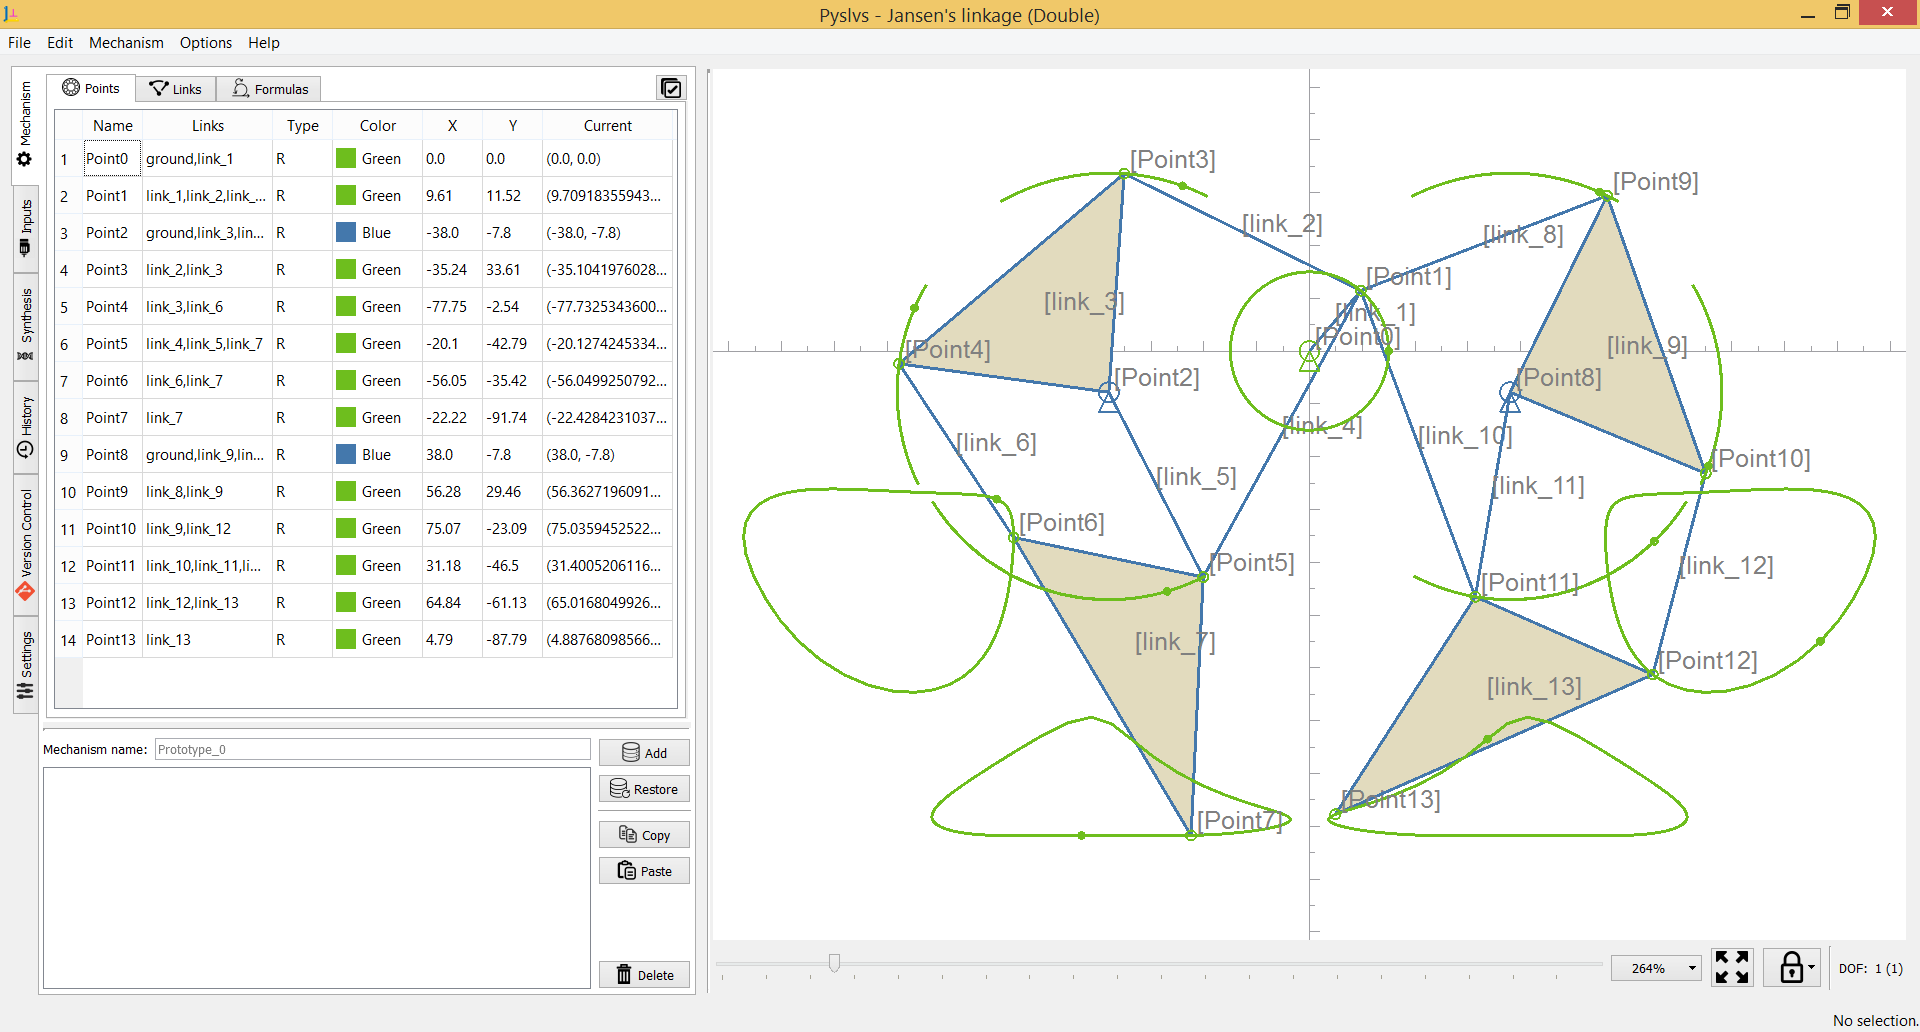
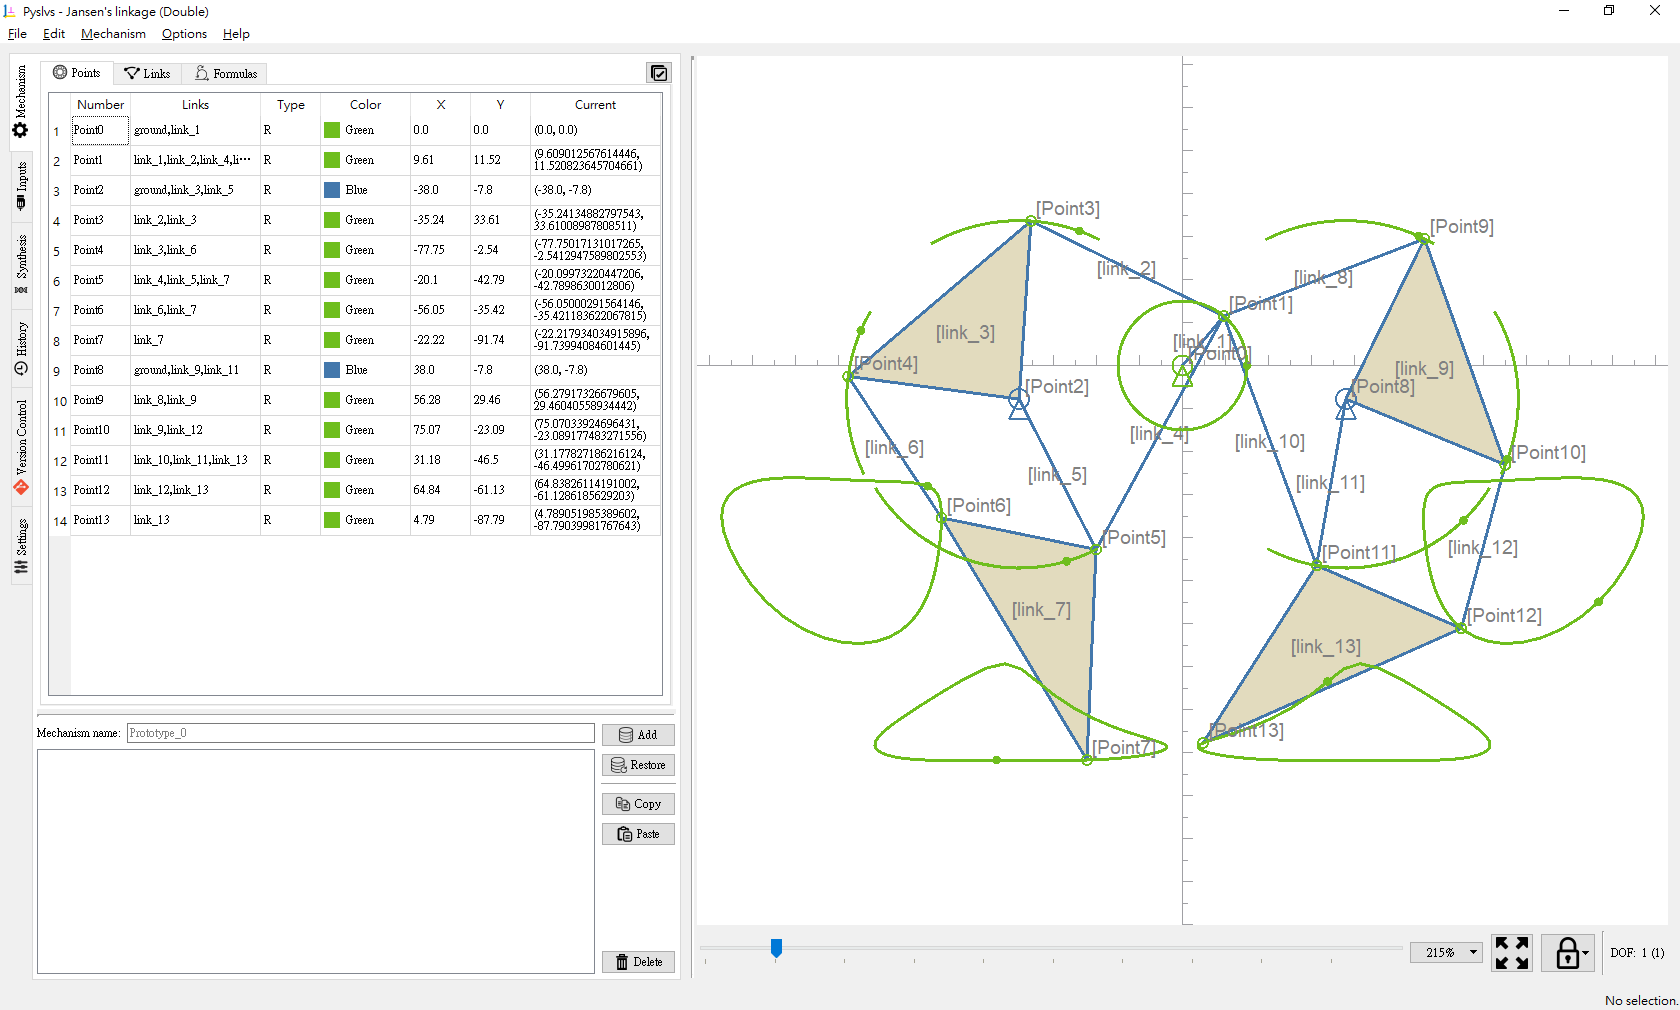
Update Windows cover and readme.

diff --git a/core/widgets/tables.py b/core/widgets/tables.py
@@ -391,8 +391,6 @@ class ExprTableWidget(_BaseTableWidget):
         """Set the table items for new coming expression."""
         if exprs != self.exprs:
             self.clear()
-            print(exprs)
-            print(unsolved)
             self.setRowCount(len(exprs) + len(unsolved))
         row = 0
         for expr in exprs:

diff --git a/README.md b/README.md
@@ -57,7 +57,7 @@ Previews in KDE Plasma desktop:
 
 ![main](images/main_plasma.png)
 
-Previews in Windows 8.1 theme:
+Previews in Windows 10 theme:
 
 ![main](images/main_win.png)
 
@@ -121,11 +121,17 @@ The grammar is defined with Extended Backus–Naur Form (EBNF), you can checkout
 
 ## Kinematics Simulation
 
-Pyslvs has a simple simulation function for revolute joints.
+Pyslvs has a simple simulation function driving with revolute joints.
 
 ![PMKS example](images/Kinemetic.png)
 
-Choose a base link and a drive link for the joint, then add the dependent into variables list.
+There is a planar constraint solving mechanism done with three CAD kernels:
+
++ Pyslvs and Sketch Solve.
++ Python-Solvespace.
++ Sketch Solve.
+
+Choose a base point and a driver point for the shaft, then add this dependent into variables list.
 
 Using QDial widget (it just like a turntable) to adjust the angle value of variable.
 
@@ -214,7 +220,7 @@ Pyslvs can support for following format.
 + Expression (just a string).
 + Solvespace format (*.slvs, only supports very few of constraints).
 
-The workbook mechanism will generate the sketch frame as *.slvs format like follow:
+The workbook mechanism will generate the sketch frame as \*.slvs format like follow:
 
 ![](images/IO_slvs_origin.png)
 
@@ -482,8 +488,8 @@ Pyslvs is under [GNU Affero General Public License v3].
 
 Kernel repository:
 
-* [Python-solvespace]
 * [Pyslvs]
+* [Python-solvespace]
 
 [Solvespace]: http://solvespace.com
 [PyQt5]: https://www.riverbankcomputing.com/software/pyqt/download5
